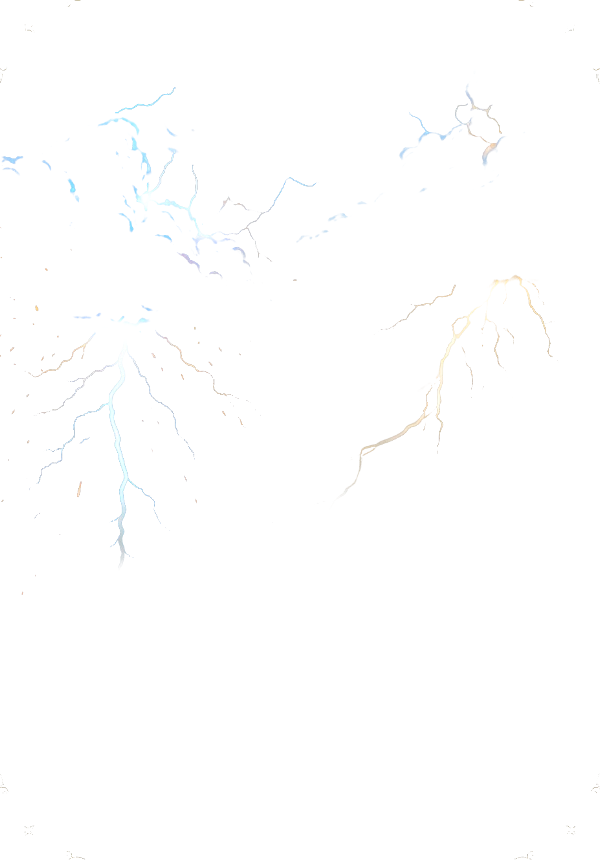
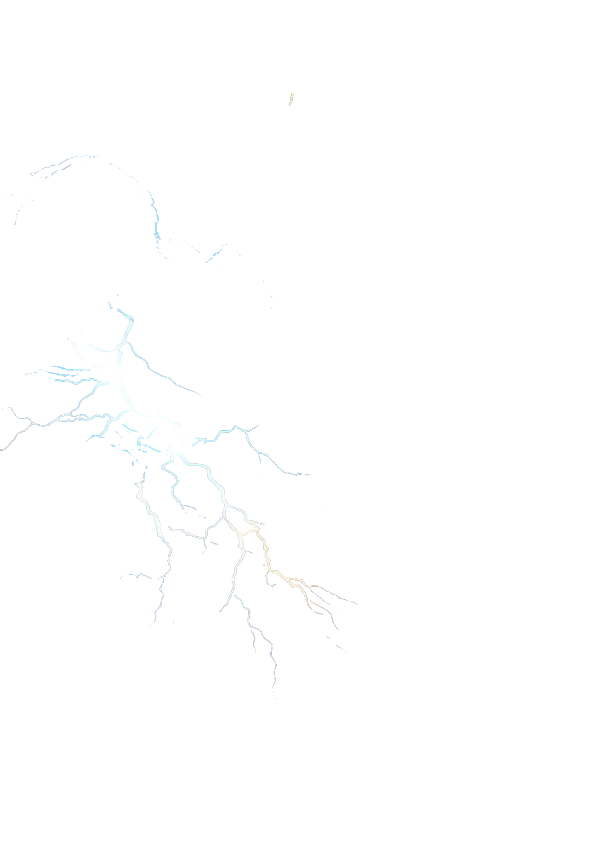
redesign the Lenda do Trovao skin with the Leonardo art, clean border and left storm cloud

diff --git a/components/cancha-card.tsx b/components/cancha-card.tsx
@@ -96,7 +96,7 @@ const ROUPAS = {
   // Lenda do Trovão (carta de prestígio): desde 2026-11-01, as três camadas que o dono do app gerou no
   // Gemini (moldura de metal dourado envelhecido por fora da carta e sem o neon dela, `artFrame`; raios
   // dourados e azuis que estalam como trovão; fundo de tempestade), em `prototipos/skin-lenda-v2.cjs`.
-  lenda: { background: "skin-lenda", clean: true, bareName: true, overflow: "skin-lenda-vaza", overflowWidth: 774 / 714, overflowLeft: 60 / 714, overflowBolts: "skin-lenda-raios", innerBolts: "skin-lenda-raios-dentro", artFrame: true, metal: ["#7a5a1c", "#7a5a1c", "#f0d48a"], accent: "#d9b36a", light: "160 180 255", bar: "#050816", muted: "#e8d3a0", sparkles: false, neon: "#d9b36a", trim: null },
+  lenda: { background: "skin-lenda", clean: true, bareName: true, overflow: "skin-lenda-vaza", overflowWidth: 799 / 714, overflowLeft: 85 / 714, overflowBolts: "skin-lenda-raios", innerBolts: "skin-lenda-raios-dentro", artFrame: true, metal: ["#7a5a1c", "#7a5a1c", "#f0d48a"], accent: "#d9b36a", light: "160 180 255", bar: "#050816", muted: "#e8d3a0", sparkles: false, neon: "#d9b36a", trim: null },
   relampago: { background: "premium-relampago", overflow: "premium-relampago-vaza", overflowWidth: 774 / 714, overflowBolts: "premium-relampago-raios", innerBolts: "premium-relampago-raios-dentro", artFrame: true, metal: ["#7a5a1c", "#7a5a1c", "#f0d48a"], accent: "#e0b250", light: "255 190 90", bar: "#0b0805", muted: "#f0d9a0", sparkles: false, neon: "#e8b54a", trim: null },
   // Nuvem carregada (Loja, Temporal 2026, aprovada pelo dono do app em 2026-10-31, no lugar do
   // Trovão): nuvens de tempestade pintadas em poucos tons, neon branco, a nuvem com raio no topo,

diff --git a/CLAUDE.md b/CLAUDE.md
@@ -10,7 +10,7 @@ O **Cancha Club** (chamado PeladApp até 2026-10-24) é uma aplicação web full
 
 Design mobile-first é inegociável: a interação principal (dar notas no vestiário) acontece no celular.
 
-**Estado atual:** tudo lê o Supabase (não há mais mocks). Home (`/`) e atleta (`/jogadores/[memberId]`) leem de `lib/league.ts`; OVR e atributos são sempre calculados das avaliações (`lib/ovr.ts`, `lib/players.ts`); o **OVR é a média das 2 maiores das 3 estatísticas da carta** (Ataque = média de VEL e CHU, Criação = PAS e DRI, Defesa = DEF e FIS; no goleiro Paredão = REF e ELA, Leitura = POS e SAI, Saída = REP e PÉS; cada uma arredondada, a mais fraca sai e o OVR é a média das outras duas, arredondada; desde 2026-10-29, `lib/card-stats.ts` (`OVR_COUNTED_STATS`), migration `20261029130000`, `card_ovr` no banco; antes era a média dos 5 melhores atributos e, por algumas horas, a das 3). Contas: **só o dono da pelada cria e gerencia**, em `/elenco`, por **nome de usuário, sem e-mail** (senha gerada via chave secreta, sem troca obrigatória: o jogador troca se quiser em Eu → "Sua senha"; "Redefinir senha" no elenco). Não existe mais link de convite/cadastro. Login por usuário (ou e-mail, nas contas antigas) e senha (`/entrar`), "Sair" na página Eu. `/bem-vindo` cria a pelada (só o 1º organizador) e leva ao `/elenco`. A antiga `/pelada` virou duas páginas (`/pelada` redireciona para `/rodadas` em `next.config.ts`): **`/rodadas`** (atração principal: nova rodada com data + confirmados do WhatsApp + **sorteio dos times pelo OVR**, lista de rodadas e fechar rodada) e **`/elenco`** (gestão de cadastro, **só o Administrador**: quem não é vai para o Início; cadastrar jogador e painel "Gerenciar" com foto, editar dados, promoção a organizador, redefinir senha e desativar/reativar). A própria conta fica em **`/eu`**: a carta, **Minhas cartas** (escolher a carta em uso), "Sua foto", "Seu nome e apelido", "Sua senha" e "Sair". Sem placar: os times revezam. Todas as rotas, menos `/entrar` e `/auth/*`, exigem login (`proxy.ts`). **Mesa tática (`/rodadas/[matchId]`)**: a partida em campo (Branco x Preto, 1-2-1, titulares e reservas com as cartas completas), aberta ao criar a rodada, com o **cenário do evento** da data da rodada em volta do campo (`PITCH_SCENES` em `team-pitch.tsx`, arte em `public/mesa/<tema>.webp`); dá para avaliar tocando nas cartas e enviar com os votos (`app/rodadas/[matchId]/`, `lib/formation.ts`, `lib/rating-drafts.ts`). Tela de notas passo a passo (`/avaliar/[matchId]`): um jogador por vez, **nota para todos os outros presentes, sem pular** (decisão do dono do app em 2026-10-23; a mesa tática só libera "Votar e enviar" com todos avaliados), envio em lote por `submitEvaluations` (revalida tudo no servidor, inclusive que avaliou todos; uma única inserção). **Fechar a rodada exige 5 envios completos** (`MIN_SUBMISSIONS_TO_CLOSE` em `lib/round-rules.ts`, espelhado em `close_match`) e a **média é aparada como na Street League**: em cada rodada, com 4 ou mais notas recebidas, saem a maior e a menor (ver "Média aparada" abaixo). Publicado na Vercel a partir da `main`. **É um PWA** (desde 2026-10-24): `app/manifest.ts` (tela cheia, `#0b130f`), ícone em `app/icon.svg` (a marca "Quadra vazada" de `components/brand-logo.tsx`, não mais o "C" da Barlow Condensed ExtraBold em contorno; os PNGs de `public/icons/` e `app/apple-icon.png` saem dele por `node scripts/generate-pwa-icons.mjs`, rodado à mão e versionado) e service worker `public/sw.js` (sem cache de páginas, de propósito; já trata `push` e o toque na notificação), registrado por `ServiceWorkerRegister` no layout; o `proxy.ts` deixa `manifest.webmanifest` e `sw.js` passarem sem login. Cartas especiais colecionáveis: **por voto** na tela de notas só o **Gol da Rodada**; **pelas notas da rodada** saem Melhor Jogador (maior nota da rodada entre todos, linha ou gol, desde 2026-10-23), Melhor Goleiro (maior nota do gol), um prêmio por estatística da carta (Melhor Atacante = maior Ataque, **Mais Criativo** = maior Criação, Melhor Defensor = maior Defesa, só linha; desde 2026-10-29, migration `20261029120100`: Foguete, Garçom, Drible, Motor e o **Time da Semana saíram do jogo**, as cartas antigas ficam) e a **Bola Murcha (menor nota da linha)**; Fair Play e Fominha saíram do jogo (decisões do dono do app em 2026-10-21); **só 4 visuais** de carta especial: Melhor Jogador, destaques (Gol e prêmios das estatísticas no visual do Gol, mudando o ícone e o atributo destacado; `awardDesignKind`), Time da Semana e Bola Murcha, além da arte do Time do Mês; e o **Time da Semana** (sem voto, sai das notas), mais o **Time do Mês** (sem voto: as 4 maiores médias do mês na linha e a maior do gol, ao fechar a rodada da última quinta; carta com a arte do dono do app, sem tema sazonal, com pontas e raios vazando do escudo), distribuídas ao fechar a rodada, com temas sazonais (`lib/card-themes.ts`: todas vestem o evento do mês; outubro Halloween (01/10 a 30/10); novembro **Toró** (as chuvas de novembro; chave `temporal` no código, o nome do começo; tempestade: céu escuro, chuva e raios, aprovado pelo dono do app em 2026-10-30, **ligado um dia antes, em 31/10, a pedido dele**, e renomeado para Toró no mesmo dia; o Brasileirão foi tirado em 2026-10-29). **As cartas já ganhas guardam o tema delas** (`awards.theme`): as de Halloween continuam com o visual de Halloween na coleção para sempre; só as novas saem no tema do dia), o evento do mês no **slider de novidades da home** (`NewsSlider`: Time do Mês, evento, Loja, Patentes, XP e CanchaCoins) e coleção em página própria. **Compartilhar nos stories:** na Coleção, o dono da carta (só ele) tem "Compartilhar nos stories" nas cartas da **rodada mais recente**; criou a rodada seguinte, as da anterior saem (`lib/award-share.ts`, sem migration). A arte 1080×1920 é **desenhada direto num canvas** (`lib/story-canvas.ts`, `renderStoryPng`, com as mesmas contas da carta por `getCanchaCardLook`) e vai para o compartilhar nativo (`navigator.share` com o arquivo; sem suporte, "Baixar imagem"). Trocou a captura da tela com `modern-screenshot` em 2026-10-30: no iPhone o story saía sem o fundo e sem o nome. Causa: a foto baixada por `fetch` no otimizador do Next (`/_next/image`) vem em JPEG, sem transparência, e cobria a carta; o canvas busca a foto direto no Storage (WebP, CORS liberado). Ao fechar, a home de cada um mostra **"Confira os vencedores"** até ele abrir o pacote em **`/rodadas/[matchId]/vencedores`** (animação de pacote do FIFA: até 6 passos, pelo peso do prêmio: prêmios individuais com a zoeira primeiro, o Time da Semana em campo, as cartas do Time do Mês e o Melhor Jogador por último, depois o resumo (`buildSteps` em `winners-reveal.tsx`); CSS puro, keyframes `reveal-*` no `globals.css`). O atleta tem duas abas: **Estatísticas** (`/jogadores/[id]`: próxima faixa, destaques, atributos x média da pelada via `lib/athlete-insights.ts` e `getTierProgress`) e **Coleção** (`/jogadores/[id]/colecao`: última conquista, galeria filtrável agrupada por evento). Foto do jogador: **upload pelo app** ("Sua foto" em `/eu` para cada um; "Gerenciar → Foto" para o dono). A máscara da pessoa vem **do servidor** (action `segmentPhoto`, nessa ordem e tudo gratuito: **BiRefNet Portrait num Space ZeroGPU próprio do Hugging Face** via `lib/hf-matte.ts` com `HF_SPACE_URL`/`HF_TOKEN`, código do Space em `hf-space/`; na mesma chamada (API `/enhance`) o Space **melhora a foto antes de recortar**: rosto pelo GFPGAN 1.4 e o resto pelo Real-ESRGAN x2, mistura "leve" (`FACE_WEIGHT` 0,5; a forte mudava a cor dos olhos), de volta ao tamanho enviado, e a carta usa a foto melhorada (decisão do dono do app em 2026-10-31, depois de um teste com a foto dele); as reservas abaixo só recortam; **remove.bg no plano gratuito** via `lib/remove-bg-matte.ts` com `REMOVE_BG_API_KEY`; e, sem os dois, MODNet local em `lib/person-matte.ts` via `onnxruntime-node`) ou, sem rede, **do aparelho** (MediaPipe `selfie_multiclass_256x256`, WASM e modelo servidos pelo app em `/mediapipe/`); o enquadramento no padrão das cartas do EA FC ("modelo C": ombros na largura toda da carta, do peito para cima), a curva e o resto ficam no aparelho (`lib/photo-cutout.ts`), com prévia na carta (**só a foto sem fundo**: a opção "Original" foi tirada por decisão do dono do app; sem recorte, pede para tentar de novo); `uploadPlayerPhoto` padroniza com `sharp` (WebP 640px) e grava as duas em `player-photos/<memberId>/<timestamp>-{cutout,original}.webp` pela chave secreta, apagando as anteriores. Na carta, a foto entra sem filtro de cor (o `PhotoTint` foi removido: fazia faixas no iPhone), com uma **sombra leve atrás da pessoa** (`PhotoShadow`: só degradês radiais no tom da carta, 40%). **XP, nível e CanchaCoins** (`lib/progression.ts`, derivados do histórico como o OVR, só rodadas fechadas; nível na carta e barra no perfil) e a **Loja** (`/loja`): vende **cartas premium** (`types/card-skin.ts`, estilo TOTY champanhe) liberadas por nível e pagas com CanchaCoins, em seções (só o que o jogador ainda não tem; as dele ficam em Eu → Minhas cartas): **Evento** (cartas com `event` em `CARD_SKINS`, à venda só durante o tema daquele ano, `isCardSkinOnSale`; Lobisomem e Vampiro, nível 3, 200 CC, só em outubro de 2026; **Nuvem carregada (no lugar do Trovão desde 2026-10-31) e Relâmpago (refeito em 2026-11-01 com a arte dourada do Gemini: nuvens negras, raios dourados que acendem e apagam como trovão, nuvem que passa por cima da moldura; `prototipos/premium-relampago.cjs`)**, nível 3, 200 CC, e a **Lenda do Trovão** (carta de prestígio; refeita em 2026-11-01 na terceira versão com a arte do Gemini: moldura fina com filigranas, nuvem de tempestade saindo pela esquerda e raios azuis e dourados que acendem e apagam; `prototipos/skin-lenda-v3.cjs`), nível 5, 600 CC, só em novembro de 2026; quem comprou continua usando) e **Personalização premium** (as fixas). **Promoções** em `lib/shop-sale.ts` (`SHOP_SALES`: hoje a Black Friday, -30% em tudo de 31/10 a 30/11/2026, ligada um dia antes junto com o Toró; enquanto houver promoção, o **primeiro slide do `NewsSlider`** é dela: etiqueta preta com o desconto e as cartas em destaque com o preço riscado e o novo, `SaleBanner`): a Loja risca o preço de tabela e `buyCardSkin` cobra e grava o preço com desconto, calculado no servidor; a carta comprada e em uso substitui a carta padrão em todo lugar (as faixas Bronze/Prata/Ouro continuam pelo OVR). **Cartas de vitrine** (home, prêmio de primeiro login, Loja, Coleção vazia) usam o jogador de exemplo `SAMPLE_PLAYER` (`lib/sample-player.ts`), nunca o rosto e os dados de quem está logado (decisão do dono do app em 2026-10-22). **Navegação (`MainNav`, decisão do dono do app em 2026-10-22: uma por aparelho, cada tela com uma função):** Início, Rodadas, Carreira (`/carreira` → próprio perfil), Loja, Elenco (só o Administrador) e Eu; no celular, barra fixa embaixo (o cabeçalho fica só com o logo); no computador, os mesmos botões no cabeçalho. **Gols confirmados (2026-11-01, design em `docs/superpowers/specs/2026-11-01-gols-confirmados-design.md`):** antes das notas, cada presente informa os próprios gols (0 a 15; o organizador pode marcar por quem ainda não informou, sem o app supor por quê: em 2026-11-01 o dono pediu para tirar o "sem celular" dos textos); **as notas ficam travadas até todos informarem** ou o organizador tocar "Liberar as notas" (`matches.ratings_unlocked_at`; trigger `guard_ratings_open`, código PA006). Na nota de cada colega, "Fulano diz que fez 3 gols · Confirmo / Não foi isso" (opcional); **3 "sim" confirmam**, não importa quantos "não"; corrigir o número zera as confirmações; quem marcou os gols de alguém não conta como "sim" neles. Tabelas `match_goals` e `match_goal_confirmations`, funções `report_goals`, `confirm_goals`, `unlock_ratings`, `get_group_goals`, `ratings_open` (migration `20261101120100`); regras e tipos para o navegador em `lib/goal-rules.ts`, leitura no servidor em `lib/match-goals.ts`, actions em `app/_actions/match-goals.ts`. Gols confirmados aparecem na bolinha embaixo da carta na mesa tática, no bloco "Gols" e na coluna do histórico do atleta, e dão a carta **Goleador da Rodada** (`goleador`, mais gols confirmados, mínimo 1, empate leva todos, `awards.votes` = gols; visual de destaque). Cada gol confirmado dá **+10 XP e +5 CC** (decisão do dono do app em 2026-11-01: é a única estatística real do jogo, então vale um pouco mais), além do XP e das moedas da carta do Goleador. Teste: `supabase/scripts/seed-test-goals.sql` e `seed-test-goals-submit.sql` (limpa com `cleanup-test-round.sql`); a `seed-test-round.sql` antiga quebra com a trava das notas. Faltam: fechamento automático da rodada (24h), animação de revelação do OVR (ver "Próximos passos"). Atualize esta linha quando isso mudar.
+**Estado atual:** tudo lê o Supabase (não há mais mocks). Home (`/`) e atleta (`/jogadores/[memberId]`) leem de `lib/league.ts`; OVR e atributos são sempre calculados das avaliações (`lib/ovr.ts`, `lib/players.ts`); o **OVR é a média das 2 maiores das 3 estatísticas da carta** (Ataque = média de VEL e CHU, Criação = PAS e DRI, Defesa = DEF e FIS; no goleiro Paredão = REF e ELA, Leitura = POS e SAI, Saída = REP e PÉS; cada uma arredondada, a mais fraca sai e o OVR é a média das outras duas, arredondada; desde 2026-10-29, `lib/card-stats.ts` (`OVR_COUNTED_STATS`), migration `20261029130000`, `card_ovr` no banco; antes era a média dos 5 melhores atributos e, por algumas horas, a das 3). Contas: **só o dono da pelada cria e gerencia**, em `/elenco`, por **nome de usuário, sem e-mail** (senha gerada via chave secreta, sem troca obrigatória: o jogador troca se quiser em Eu → "Sua senha"; "Redefinir senha" no elenco). Não existe mais link de convite/cadastro. Login por usuário (ou e-mail, nas contas antigas) e senha (`/entrar`), "Sair" na página Eu. `/bem-vindo` cria a pelada (só o 1º organizador) e leva ao `/elenco`. A antiga `/pelada` virou duas páginas (`/pelada` redireciona para `/rodadas` em `next.config.ts`): **`/rodadas`** (atração principal: nova rodada com data + confirmados do WhatsApp + **sorteio dos times pelo OVR**, lista de rodadas e fechar rodada) e **`/elenco`** (gestão de cadastro, **só o Administrador**: quem não é vai para o Início; cadastrar jogador e painel "Gerenciar" com foto, editar dados, promoção a organizador, redefinir senha e desativar/reativar). A própria conta fica em **`/eu`**: a carta, **Minhas cartas** (escolher a carta em uso), "Sua foto", "Seu nome e apelido", "Sua senha" e "Sair". Sem placar: os times revezam. Todas as rotas, menos `/entrar` e `/auth/*`, exigem login (`proxy.ts`). **Mesa tática (`/rodadas/[matchId]`)**: a partida em campo (Branco x Preto, 1-2-1, titulares e reservas com as cartas completas), aberta ao criar a rodada, com o **cenário do evento** da data da rodada em volta do campo (`PITCH_SCENES` em `team-pitch.tsx`, arte em `public/mesa/<tema>.webp`); dá para avaliar tocando nas cartas e enviar com os votos (`app/rodadas/[matchId]/`, `lib/formation.ts`, `lib/rating-drafts.ts`). Tela de notas passo a passo (`/avaliar/[matchId]`): um jogador por vez, **nota para todos os outros presentes, sem pular** (decisão do dono do app em 2026-10-23; a mesa tática só libera "Votar e enviar" com todos avaliados), envio em lote por `submitEvaluations` (revalida tudo no servidor, inclusive que avaliou todos; uma única inserção). **Fechar a rodada exige 5 envios completos** (`MIN_SUBMISSIONS_TO_CLOSE` em `lib/round-rules.ts`, espelhado em `close_match`) e a **média é aparada como na Street League**: em cada rodada, com 4 ou mais notas recebidas, saem a maior e a menor (ver "Média aparada" abaixo). Publicado na Vercel a partir da `main`. **É um PWA** (desde 2026-10-24): `app/manifest.ts` (tela cheia, `#0b130f`), ícone em `app/icon.svg` (a marca "Quadra vazada" de `components/brand-logo.tsx`, não mais o "C" da Barlow Condensed ExtraBold em contorno; os PNGs de `public/icons/` e `app/apple-icon.png` saem dele por `node scripts/generate-pwa-icons.mjs`, rodado à mão e versionado) e service worker `public/sw.js` (sem cache de páginas, de propósito; já trata `push` e o toque na notificação), registrado por `ServiceWorkerRegister` no layout; o `proxy.ts` deixa `manifest.webmanifest` e `sw.js` passarem sem login. Cartas especiais colecionáveis: **por voto** na tela de notas só o **Gol da Rodada**; **pelas notas da rodada** saem Melhor Jogador (maior nota da rodada entre todos, linha ou gol, desde 2026-10-23), Melhor Goleiro (maior nota do gol), um prêmio por estatística da carta (Melhor Atacante = maior Ataque, **Mais Criativo** = maior Criação, Melhor Defensor = maior Defesa, só linha; desde 2026-10-29, migration `20261029120100`: Foguete, Garçom, Drible, Motor e o **Time da Semana saíram do jogo**, as cartas antigas ficam) e a **Bola Murcha (menor nota da linha)**; Fair Play e Fominha saíram do jogo (decisões do dono do app em 2026-10-21); **só 4 visuais** de carta especial: Melhor Jogador, destaques (Gol e prêmios das estatísticas no visual do Gol, mudando o ícone e o atributo destacado; `awardDesignKind`), Time da Semana e Bola Murcha, além da arte do Time do Mês; e o **Time da Semana** (sem voto, sai das notas), mais o **Time do Mês** (sem voto: as 4 maiores médias do mês na linha e a maior do gol, ao fechar a rodada da última quinta; carta com a arte do dono do app, sem tema sazonal, com pontas e raios vazando do escudo), distribuídas ao fechar a rodada, com temas sazonais (`lib/card-themes.ts`: todas vestem o evento do mês; outubro Halloween (01/10 a 30/10); novembro **Toró** (as chuvas de novembro; chave `temporal` no código, o nome do começo; tempestade: céu escuro, chuva e raios, aprovado pelo dono do app em 2026-10-30, **ligado um dia antes, em 31/10, a pedido dele**, e renomeado para Toró no mesmo dia; o Brasileirão foi tirado em 2026-10-29). **As cartas já ganhas guardam o tema delas** (`awards.theme`): as de Halloween continuam com o visual de Halloween na coleção para sempre; só as novas saem no tema do dia), o evento do mês no **slider de novidades da home** (`NewsSlider`: Time do Mês, evento, Loja, Patentes, XP e CanchaCoins) e coleção em página própria. **Compartilhar nos stories:** na Coleção, o dono da carta (só ele) tem "Compartilhar nos stories" nas cartas da **rodada mais recente**; criou a rodada seguinte, as da anterior saem (`lib/award-share.ts`, sem migration). A arte 1080×1920 é **desenhada direto num canvas** (`lib/story-canvas.ts`, `renderStoryPng`, com as mesmas contas da carta por `getCanchaCardLook`) e vai para o compartilhar nativo (`navigator.share` com o arquivo; sem suporte, "Baixar imagem"). Trocou a captura da tela com `modern-screenshot` em 2026-10-30: no iPhone o story saía sem o fundo e sem o nome. Causa: a foto baixada por `fetch` no otimizador do Next (`/_next/image`) vem em JPEG, sem transparência, e cobria a carta; o canvas busca a foto direto no Storage (WebP, CORS liberado). Ao fechar, a home de cada um mostra **"Confira os vencedores"** até ele abrir o pacote em **`/rodadas/[matchId]/vencedores`** (animação de pacote do FIFA: até 6 passos, pelo peso do prêmio: prêmios individuais com a zoeira primeiro, o Time da Semana em campo, as cartas do Time do Mês e o Melhor Jogador por último, depois o resumo (`buildSteps` em `winners-reveal.tsx`); CSS puro, keyframes `reveal-*` no `globals.css`). O atleta tem duas abas: **Estatísticas** (`/jogadores/[id]`: próxima faixa, destaques, atributos x média da pelada via `lib/athlete-insights.ts` e `getTierProgress`) e **Coleção** (`/jogadores/[id]/colecao`: última conquista, galeria filtrável agrupada por evento). Foto do jogador: **upload pelo app** ("Sua foto" em `/eu` para cada um; "Gerenciar → Foto" para o dono). A máscara da pessoa vem **do servidor** (action `segmentPhoto`, nessa ordem e tudo gratuito: **BiRefNet Portrait num Space ZeroGPU próprio do Hugging Face** via `lib/hf-matte.ts` com `HF_SPACE_URL`/`HF_TOKEN`, código do Space em `hf-space/`; na mesma chamada (API `/enhance`) o Space **melhora a foto antes de recortar**: rosto pelo GFPGAN 1.4 e o resto pelo Real-ESRGAN x2, mistura "leve" (`FACE_WEIGHT` 0,5; a forte mudava a cor dos olhos), de volta ao tamanho enviado, e a carta usa a foto melhorada (decisão do dono do app em 2026-10-31, depois de um teste com a foto dele); as reservas abaixo só recortam; **remove.bg no plano gratuito** via `lib/remove-bg-matte.ts` com `REMOVE_BG_API_KEY`; e, sem os dois, MODNet local em `lib/person-matte.ts` via `onnxruntime-node`) ou, sem rede, **do aparelho** (MediaPipe `selfie_multiclass_256x256`, WASM e modelo servidos pelo app em `/mediapipe/`); o enquadramento no padrão das cartas do EA FC ("modelo C": ombros na largura toda da carta, do peito para cima), a curva e o resto ficam no aparelho (`lib/photo-cutout.ts`), com prévia na carta (**só a foto sem fundo**: a opção "Original" foi tirada por decisão do dono do app; sem recorte, pede para tentar de novo); `uploadPlayerPhoto` padroniza com `sharp` (WebP 640px) e grava as duas em `player-photos/<memberId>/<timestamp>-{cutout,original}.webp` pela chave secreta, apagando as anteriores. Na carta, a foto entra sem filtro de cor (o `PhotoTint` foi removido: fazia faixas no iPhone), com uma **sombra leve atrás da pessoa** (`PhotoShadow`: só degradês radiais no tom da carta, 40%). **XP, nível e CanchaCoins** (`lib/progression.ts`, derivados do histórico como o OVR, só rodadas fechadas; nível na carta e barra no perfil) e a **Loja** (`/loja`): vende **cartas premium** (`types/card-skin.ts`, estilo TOTY champanhe) liberadas por nível e pagas com CanchaCoins, em seções (só o que o jogador ainda não tem; as dele ficam em Eu → Minhas cartas): **Evento** (cartas com `event` em `CARD_SKINS`, à venda só durante o tema daquele ano, `isCardSkinOnSale`; Lobisomem e Vampiro, nível 3, 200 CC, só em outubro de 2026; **Nuvem carregada (no lugar do Trovão desde 2026-10-31) e Relâmpago (refeito em 2026-11-01 com a arte dourada do Gemini: nuvens negras, raios dourados que acendem e apagam como trovão, nuvem que passa por cima da moldura; `prototipos/premium-relampago.cjs`)**, nível 3, 200 CC, e a **Lenda do Trovão** (carta de prestígio; refeita em 2026-11-01 na quarta versão, com a arte do Leonardo: moldura de ouro com neon azul por dentro e sem enfeites nos cantos, raio dourado no topo, nuvem de tempestade saindo pela esquerda e raios azuis que acendem e apagam; `prototipos/skin-lenda-v4.cjs`), nível 5, 600 CC, só em novembro de 2026; quem comprou continua usando) e **Personalização premium** (as fixas). **Promoções** em `lib/shop-sale.ts` (`SHOP_SALES`: hoje a Black Friday, -30% em tudo de 31/10 a 30/11/2026, ligada um dia antes junto com o Toró; enquanto houver promoção, o **primeiro slide do `NewsSlider`** é dela: etiqueta preta com o desconto e as cartas em destaque com o preço riscado e o novo, `SaleBanner`): a Loja risca o preço de tabela e `buyCardSkin` cobra e grava o preço com desconto, calculado no servidor; a carta comprada e em uso substitui a carta padrão em todo lugar (as faixas Bronze/Prata/Ouro continuam pelo OVR). **Cartas de vitrine** (home, prêmio de primeiro login, Loja, Coleção vazia) usam o jogador de exemplo `SAMPLE_PLAYER` (`lib/sample-player.ts`), nunca o rosto e os dados de quem está logado (decisão do dono do app em 2026-10-22). **Navegação (`MainNav`, decisão do dono do app em 2026-10-22: uma por aparelho, cada tela com uma função):** Início, Rodadas, Carreira (`/carreira` → próprio perfil), Loja, Elenco (só o Administrador) e Eu; no celular, barra fixa embaixo (o cabeçalho fica só com o logo); no computador, os mesmos botões no cabeçalho. **Gols confirmados (2026-11-01, design em `docs/superpowers/specs/2026-11-01-gols-confirmados-design.md`):** antes das notas, cada presente informa os próprios gols (0 a 15; o organizador pode marcar por quem ainda não informou, sem o app supor por quê: em 2026-11-01 o dono pediu para tirar o "sem celular" dos textos); **as notas ficam travadas até todos informarem** ou o organizador tocar "Liberar as notas" (`matches.ratings_unlocked_at`; trigger `guard_ratings_open`, código PA006). Na nota de cada colega, "Fulano diz que fez 3 gols · Confirmo / Não foi isso" (opcional); **3 "sim" confirmam**, não importa quantos "não"; corrigir o número zera as confirmações; quem marcou os gols de alguém não conta como "sim" neles. Tabelas `match_goals` e `match_goal_confirmations`, funções `report_goals`, `confirm_goals`, `unlock_ratings`, `get_group_goals`, `ratings_open` (migration `20261101120100`); regras e tipos para o navegador em `lib/goal-rules.ts`, leitura no servidor em `lib/match-goals.ts`, actions em `app/_actions/match-goals.ts`. Gols confirmados aparecem na bolinha embaixo da carta na mesa tática, no bloco "Gols" e na coluna do histórico do atleta, e dão a carta **Goleador da Rodada** (`goleador`, mais gols confirmados, mínimo 1, empate leva todos, `awards.votes` = gols; visual de destaque). Cada gol confirmado dá **+10 XP e +5 CC** (decisão do dono do app em 2026-11-01: é a única estatística real do jogo, então vale um pouco mais), além do XP e das moedas da carta do Goleador. Teste: `supabase/scripts/seed-test-goals.sql` e `seed-test-goals-submit.sql` (limpa com `cleanup-test-round.sql`); a `seed-test-round.sql` antiga quebra com a trava das notas. Faltam: fechamento automático da rodada (24h), animação de revelação do OVR (ver "Próximos passos"). Atualize esta linha quando isso mudar.
 
 **Nome (decisão do dono do app em 2026-10-24):** o app se chama **Cancha Club** (já existia outro "PeladApp"); logo = a marca "Quadra vazada" + "CANCHA" e "CLUB" em lima, em caixa alta (`BrandLogo`/`BrandMark` em `components/brand-logo.tsx`; ver design-system), moeda **CanchaCoins (CC)**. Ficaram com o nome antigo **de propósito**, porque o usuário não vê e trocar quebraria algo: o domínio técnico do login `peladapp.invalid` (`lib/username.ts`; trocar derruba o login de todas as contas), o cookie `peladapp_active_group`, a chave `peladapp_nav_owner`, as migrations e scripts SQL, o Space `peladapp-recorte` do Hugging Face, o nome do pacote, a pasta e o repositório. Falta: busca de marca no INPI (com o dono) e registrar canchaclub.com.br.
 

diff --git a/.claude/rules/design-system.md b/.claude/rules/design-system.md
@@ -33,7 +33,7 @@ Desde 2026-10-29 todas as cartas usam a `CanchaCard` (o `PlayerCard` a chama). A
 - **Roupas** (`ROUPAS` no componente): fundo em imagem (`public/cartas/fundos/`), cores das barras, fios e luz. Efeitos ricos ficam **assados na imagem** (sem `filter`/`mix-blend-mode` na carta, por causa do iPhone).
 - **Sombra atrás da foto (aprovada pelo dono do app em 2026-10-29, "A · Halo escuro"):** em toda carta com foto, uma sombra escura logo atrás da cabeça e dos ombros (`PhotoShadow`: elipses em SVG com o degradê `cc-photo-shadow` de `PlayerCardDefs`, atrás da faixa do nome), para o jogador se descolar do fundo. Não use `radial-gradient` do CSS para isso: no story do iPhone virava uma camada preta por cima do fundo e do nome.
 - **Carta padrão:** grafite fosco, sem brilho, moldura **fina de metal polido** (`METAL_FRAME`, faixas de reflexo na cor da moldura).
-- **Lenda do Trovão, versão 3 (2026-11-01, aprovada pelo dono do app; a de antes ficava pior que a Nuvem e o Relâmpago):** nova arte do Gemini com o molde do Relâmpago e pedidos do dono: **moldura fina** como as outras (fio de ouro envelhecido com filigranas finíssimas nos quatro cantos, raio dourado no centro do topo e tubo de neon azul fino por fora; o dono não quer moldura grossa de "quadro") e **o aglomerado em outro lado** (a nuvem de tempestade sai pela **esquerda**, na altura do meio; o Gemini repetia sempre à direita, então o prompt fixa o lado). `prototipos/skin-lenda-v3.cjs` (derivado do `premium-relampago.cjs`): a imagem de fora tem 60 px extras à esquerda (`overflowLeft` 60/714 e `overflowWidth` 774/714 na roupa); raios achados pelo **contraste local** (a luminância sozinha pegava as nuvens iluminadas) e separados em `innerBolts`/`overflowBolts`, que piscam juntos; o fio, o raio do topo e o tubo ficam fixos; **as filigranas dos cantos vão na camada de fora** (por cima da barra do nome e das estatísticas; dentro da janela elas ficavam escurecidas atrás delas). Roupa com `clean: true`: **a vinheta, o degradê escuro até as estatísticas e a sombra atrás da pessoa escurecem só o que está dentro da janela e deixam um corte onde a nuvem cruza a moldura** (o dono viu na nuvem). O Relâmpago, a Nuvem e as quatro premium de cristais ainda têm esse corte discreto; se o dono quiser, aplicar `clean` nelas (perdem a sombra atrás do jogador). **Sem o fundo escuro atrás do nome** (`bareName`, pedido do dono do app: só as letras sobre a arte, sem sombra; o fundo escuro de 80% a 40% some, a linha dourada embaixo fica; testada a versão com sombra leve nas letras e descartada); as filigranas e o **raio do topo inteiro** (inclusive a ponta que entra na janela, sem rampa na borda dela, que deixava um risco) vão na camada de fora. As outras cartas ainda têm o fundo escuro atrás do nome. Antes desta, a versão 2 (scripts `skin-lenda-v2.cjs` e outros, removidos) usava a moldura de metal grossa.
+- **Lenda do Trovão, versão 4 (2026-11-01, aprovada pelo dono do app; a do Gemini ficava pior que a Nuvem e o Relâmpago):** arte gerada pelo dono no **Leonardo/Dreamina** (`lenda-v4-leonardo-dono.jpg`, 2000 × 2000; a marca "DreaminaAI" do canto fica fora da área usada; **checar os termos de uso comercial do plano gratuito**): céu azul-noite liso, moldura de ouro envelhecido com faixa azul-marinho e neon ciano **por dentro** do fio, raio dourado no topo e uma nuvem de tempestade com raios que sai pela **esquerda** (o dono pediu outro lado que não a direita, e a moldura fina). `prototipos/skin-lenda-v4.cjs` (derivado do `premium-relampago.cjs`): a nuvem sai ~350 px da arte e a parte de fora da moldura é comprimida de forma suave para caber em `overflowLeft` 85/714 e `overflowWidth` 799/714; raios achados pelo contraste local e separados em `innerBolts`/`overflowBolts`; **o dono pediu só a borda com o neon azul, sem os enfeites dos cantos**, então o script apaga as filigranas, o fio fino de dentro e a segunda linha de neon **preenchendo por interpolação suave** (relaxamento de Laplace numa grade de 4 px; média simples deixava um retângulo escuro) e protege só o ouro forte do raio do topo e dos arremates do fio (uma proteção larga deixava um borrão ao lado do raio); o raio do topo vai na camada de fora, sem rampa na borda da janela. **Armadilha:** o fio de ouro com contas, mesmo apagado do fundo, era tomado por raio pelo detector e voltava como um risco pontilhado quando os raios acendiam: fora da nuvem a faixa de 9 a 62 px da borda não tem raios. Roupa com `clean` e `bareName` (nome sem fundo escuro). O neon fica por dentro do fio de ouro, diferente do Relâmpago e da Nuvem (por fora). As versões 2 e 3 (Gemini) saíram.
 - **Lenda do Trovão** (carta de prestígio **do evento Toró**, na seção Evento da Loja, **nível 5, 600 CC**, à venda só até 30/11/2026; aprovada pelo dono do app em 2026-10-31, primeiro como fixa no nível 10 e no mesmo dia passada para o evento no nível 5): a **moldura de metal dourado envelhecido** de um concept que o dono criou no Gemini, com o raio no topo e raios dourados e azuis, entra por fora da carta como arte (`overflow`), **sem o tubo de neon da carta** (`artFrame`), cobrindo uns 12 px da borda; os **raios azuis estalam como trovão** (`overflowBolts`; os dourados ficam acesos, porque têm a cor do metal e não dá para separar pela cor); o fundo é o miolo da arte de tempestade dele (nuvens carregadas com luz dourada). Scripts `prototipos/skin-lenda-arte.cjs` (moldura e raios, do concept) e `skin-lenda-fundo.cjs` (fundo). Para ficar perfeita, o dono vai gerar no Gemini a moldura, o fundo e os raios em peças separadas. Testadas e descartadas no caminho, como experimento: a carta com a arte de chuva (árvore e água) e a de tempestade com moldura azul e dourada.
 - **Skins premium com cristais (aprovadas pelo dono do app em 2026-11-01; Esmeralda, Safira, Ametista e Rubi):** uma arte só que o dono gerou no Gemini (safira e ouro: fundo azul-noite com estrelas, fio de ouro, neon e um aglomerado de cristais com pepitas de ouro que sai pelo lado direito **por cima** da moldura), reaproveitada nas quatro pedras girando só o tom dos azuis (o ouro fica). `prototipos/premium-v2.cjs` ajusta a arte: proporção 5:7, o neon da arte é **redesenhado concêntrico ao ouro** (respiro de ~1,5% da largura nos quatro lados e nos cantos; o da arte tinha o canto mais fechado e um vão grande) e só ao lado do aglomerado vale o neon original, com passagem suave; saem `premium-<pedra>.webp` (fundo na janela) e `premium-<pedra>-vaza.webp` (moldura e cristais por fora, mais larga só para a direita: `overflowWidth` 774/714, porque o aglomerado passa da sobra de 8%). Cor nova de pedra = uma linha em `GEMS`. Roupas com `artFrame`, `overflow` e `overflowWidth`. **Lição do dono (2026-11-01):** o fundo da carta é o que mais pesa no premium; neon contínuo, fino e simétrico (sem aberturas irregulares); o que vaza passa por cima da moldura. Faixa de estatísticas continua escura e sólida (o vidro fosco foi testado e descartado: misturava estilos). Gemini: dar o gabarito 5:7 e pedir uma camada por mensagem. **O story de compartilhar não usa essa arte** (só cartas de prêmio).
 - **Ícone (2026-11-01, mesmo caminho, outra arte do Gemini):** mármore branco-creme com veios dourados, tubo e fio de ouro (já concêntricos, mantidos como vieram), aglomerado de quartzo, diamantes e pepitas de ouro por cima da moldura; `prototipos/premium-icone.cjs` (sem girar cor). Fundo claro: a roupa leva `clean` (sem a sombra atrás da pessoa, sem a vinheta e sem o degradê escuro que desce até as estatísticas: no mármore eles apareciam como sujeira). **Regra que serve para as próximas artes:** por dentro da carta, a camada de fora (`-vaza`) cobre só o que está fora da janela da carta (fio de ouro e cantos, medido pela janela arredondada); se ela entrar na janela, vira uma faixa por cima do ombro da foto (foi o que o dono viu na Ícone). A foto de exemplo termina com um corte reto antes da borda: com a faixa fora da janela, o corpo chega às duas bordas. A rampa da camada de fora fica 1 a 3 px **por dentro** da janela, onde o fundo sempre está presente: se ela passa da borda (que cai no meio de um pixel), uma coluna meio transparente deixa o escuro de trás aparecer e vira um risco fino por cima dos cristais. Os cristais translúcidos deixam ver o fio de ouro por baixo, como na arte. As premium com cristais (Safira etc.) ainda deixam ~7 px de faixa por cima da foto.
